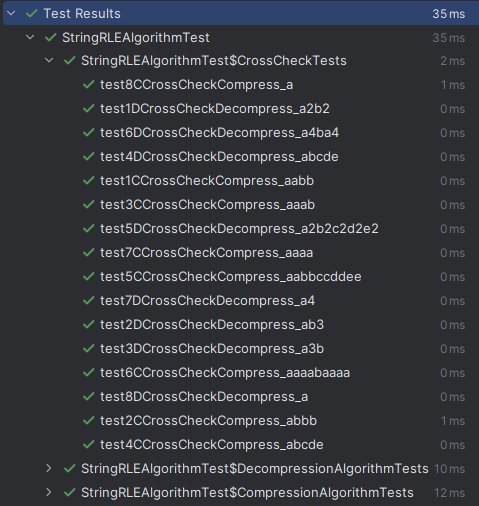
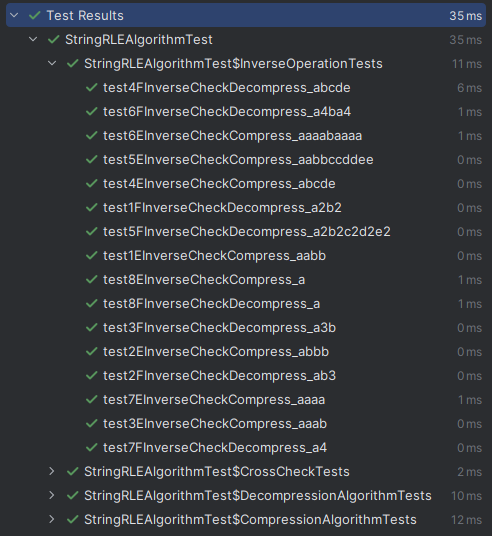
add: Inverse operation tests

Changed region(s): [[0.0, 0.0, 1.0, 1.0], [0.9061, 0.2075, 0.9937, 0.8893], [0.0877, 0.8597, 0.1169, 0.8893]]

diff --git a/src/test/java/edu/deakin/sit333/StringRLEAlgorithmTest.java b/src/test/java/edu/deakin/sit333/StringRLEAlgorithmTest.java
@@ -285,4 +285,151 @@ public class StringRLEAlgorithmTest {
             assertEquals(AlternativeRLE.runLengthDecode(input), StringRLEAlgorithm.decompress(input));
         }
     }
+
+    public static class InverseOperationTests {
+        @Test
+        public void test1EInverseCheckCompress_aabb() {
+            String input = "aabb";
+            String result = StringRLEAlgorithm.compress(input);
+            String inverseResult = StringRLEAlgorithm.decompress(result);
+
+            assertEquals(input, inverseResult);
+        }
+
+        @Test
+        public void test2EInverseCheckCompress_abbb() {
+            String input = "abbb";
+            String result = StringRLEAlgorithm.compress(input);
+            String inverseResult = StringRLEAlgorithm.decompress(result);
+
+            assertEquals(input, inverseResult);
+        }
+
+        @Test
+        public void test3EInverseCheckCompress_aaab() {
+            String input = "aaab";
+            String result = StringRLEAlgorithm.compress(input);
+            String inverseResult = StringRLEAlgorithm.decompress(result);
+
+            assertEquals(input, inverseResult);
+        }
+
+        @Test
+        public void test4EInverseCheckCompress_abcde() {
+            String input = "abcde";
+            String result = StringRLEAlgorithm.compress(input);
+            String inverseResult = StringRLEAlgorithm.decompress(result);
+
+            assertEquals(input, inverseResult);
+        }
+
+        @Test
+        public void test5EInverseCheckCompress_aabbccddee() {
+            String input = "aabbccddee";
+            String result = StringRLEAlgorithm.compress(input);
+            String inverseResult = StringRLEAlgorithm.decompress(result);
+
+            assertEquals(input, inverseResult);
+        }
+
+        @Test
+        public void test6EInverseCheckCompress_aaaabaaaa() {
+            String input = "aaaabaaaa";
+            String result = StringRLEAlgorithm.compress(input);
+            String inverseResult = StringRLEAlgorithm.decompress(result);
+
+            assertEquals(input, inverseResult);
+        }
+
+        @Test
+        public void test7EInverseCheckCompress_aaaa() {
+            String input = "aaaa";
+            String result = StringRLEAlgorithm.compress(input);
+            String inverseResult = StringRLEAlgorithm.decompress(result);
+
+            assertEquals(input, inverseResult);
+        }
+
+        @Test
+        public void test8EInverseCheckCompress_a() {
+            String input = "a";
+            String result = StringRLEAlgorithm.compress(input);
+            String inverseResult = StringRLEAlgorithm.decompress(result);
+
+            assertEquals(input, inverseResult);
+        }
+
+
+        @Test
+        public void test1FInverseCheckDecompress_a2b2() {
+            String input = "a2b2";
+            String result = StringRLEAlgorithm.decompress(input);
+            String inverseResult = StringRLEAlgorithm.compress(result);
+
+            assertEquals(input, inverseResult);
+        }
+
+        @Test
+        public void test2FInverseCheckDecompress_ab3() {
+            String input = "ab3";
+            String result = StringRLEAlgorithm.decompress(input);
+            String inverseResult = StringRLEAlgorithm.compress(result);
+
+            assertEquals(input, inverseResult);
+        }
+
+        @Test
+        public void test3FInverseCheckDecompress_a3b() {
+            String input = "a3b";
+            String result = StringRLEAlgorithm.decompress(input);
+            String inverseResult = StringRLEAlgorithm.compress(result);
+
+            assertEquals(input, inverseResult);
+        }
+
+        @Test
+        public void test4FInverseCheckDecompress_abcde() {
+            String input = "abcde";
+            String result = StringRLEAlgorithm.decompress(input);
+            String inverseResult = StringRLEAlgorithm.compress(result);
+
+            assertEquals(input, inverseResult);
+        }
+
+        @Test
+        public void test5FInverseCheckDecompress_a2b2c2d2e2() {
+            String input = "a2b2c2d2e2";
+            String result = StringRLEAlgorithm.decompress(input);
+            String inverseResult = StringRLEAlgorithm.compress(result);
+
+            assertEquals(input, inverseResult);
+        }
+
+        @Test
+        public void test6FInverseCheckDecompress_a4ba4() {
+            String input = "a4ba4";
+            String result = StringRLEAlgorithm.decompress(input);
+            String inverseResult = StringRLEAlgorithm.compress(result);
+
+            assertEquals(input, inverseResult);
+        }
+
+        @Test
+        public void test7FInverseCheckDecompress_a4() {
+            String input = "a4";
+            String result = StringRLEAlgorithm.decompress(input);
+            String inverseResult = StringRLEAlgorithm.compress(result);
+
+            assertEquals(input, inverseResult);
+        }
+
+        @Test
+        public void test8FInverseCheckDecompress_a() {
+            String input = "a";
+            String result = StringRLEAlgorithm.decompress(input);
+            String inverseResult = StringRLEAlgorithm.compress(result);
+
+            assertEquals(input, inverseResult);
+        }
+    }
 }
